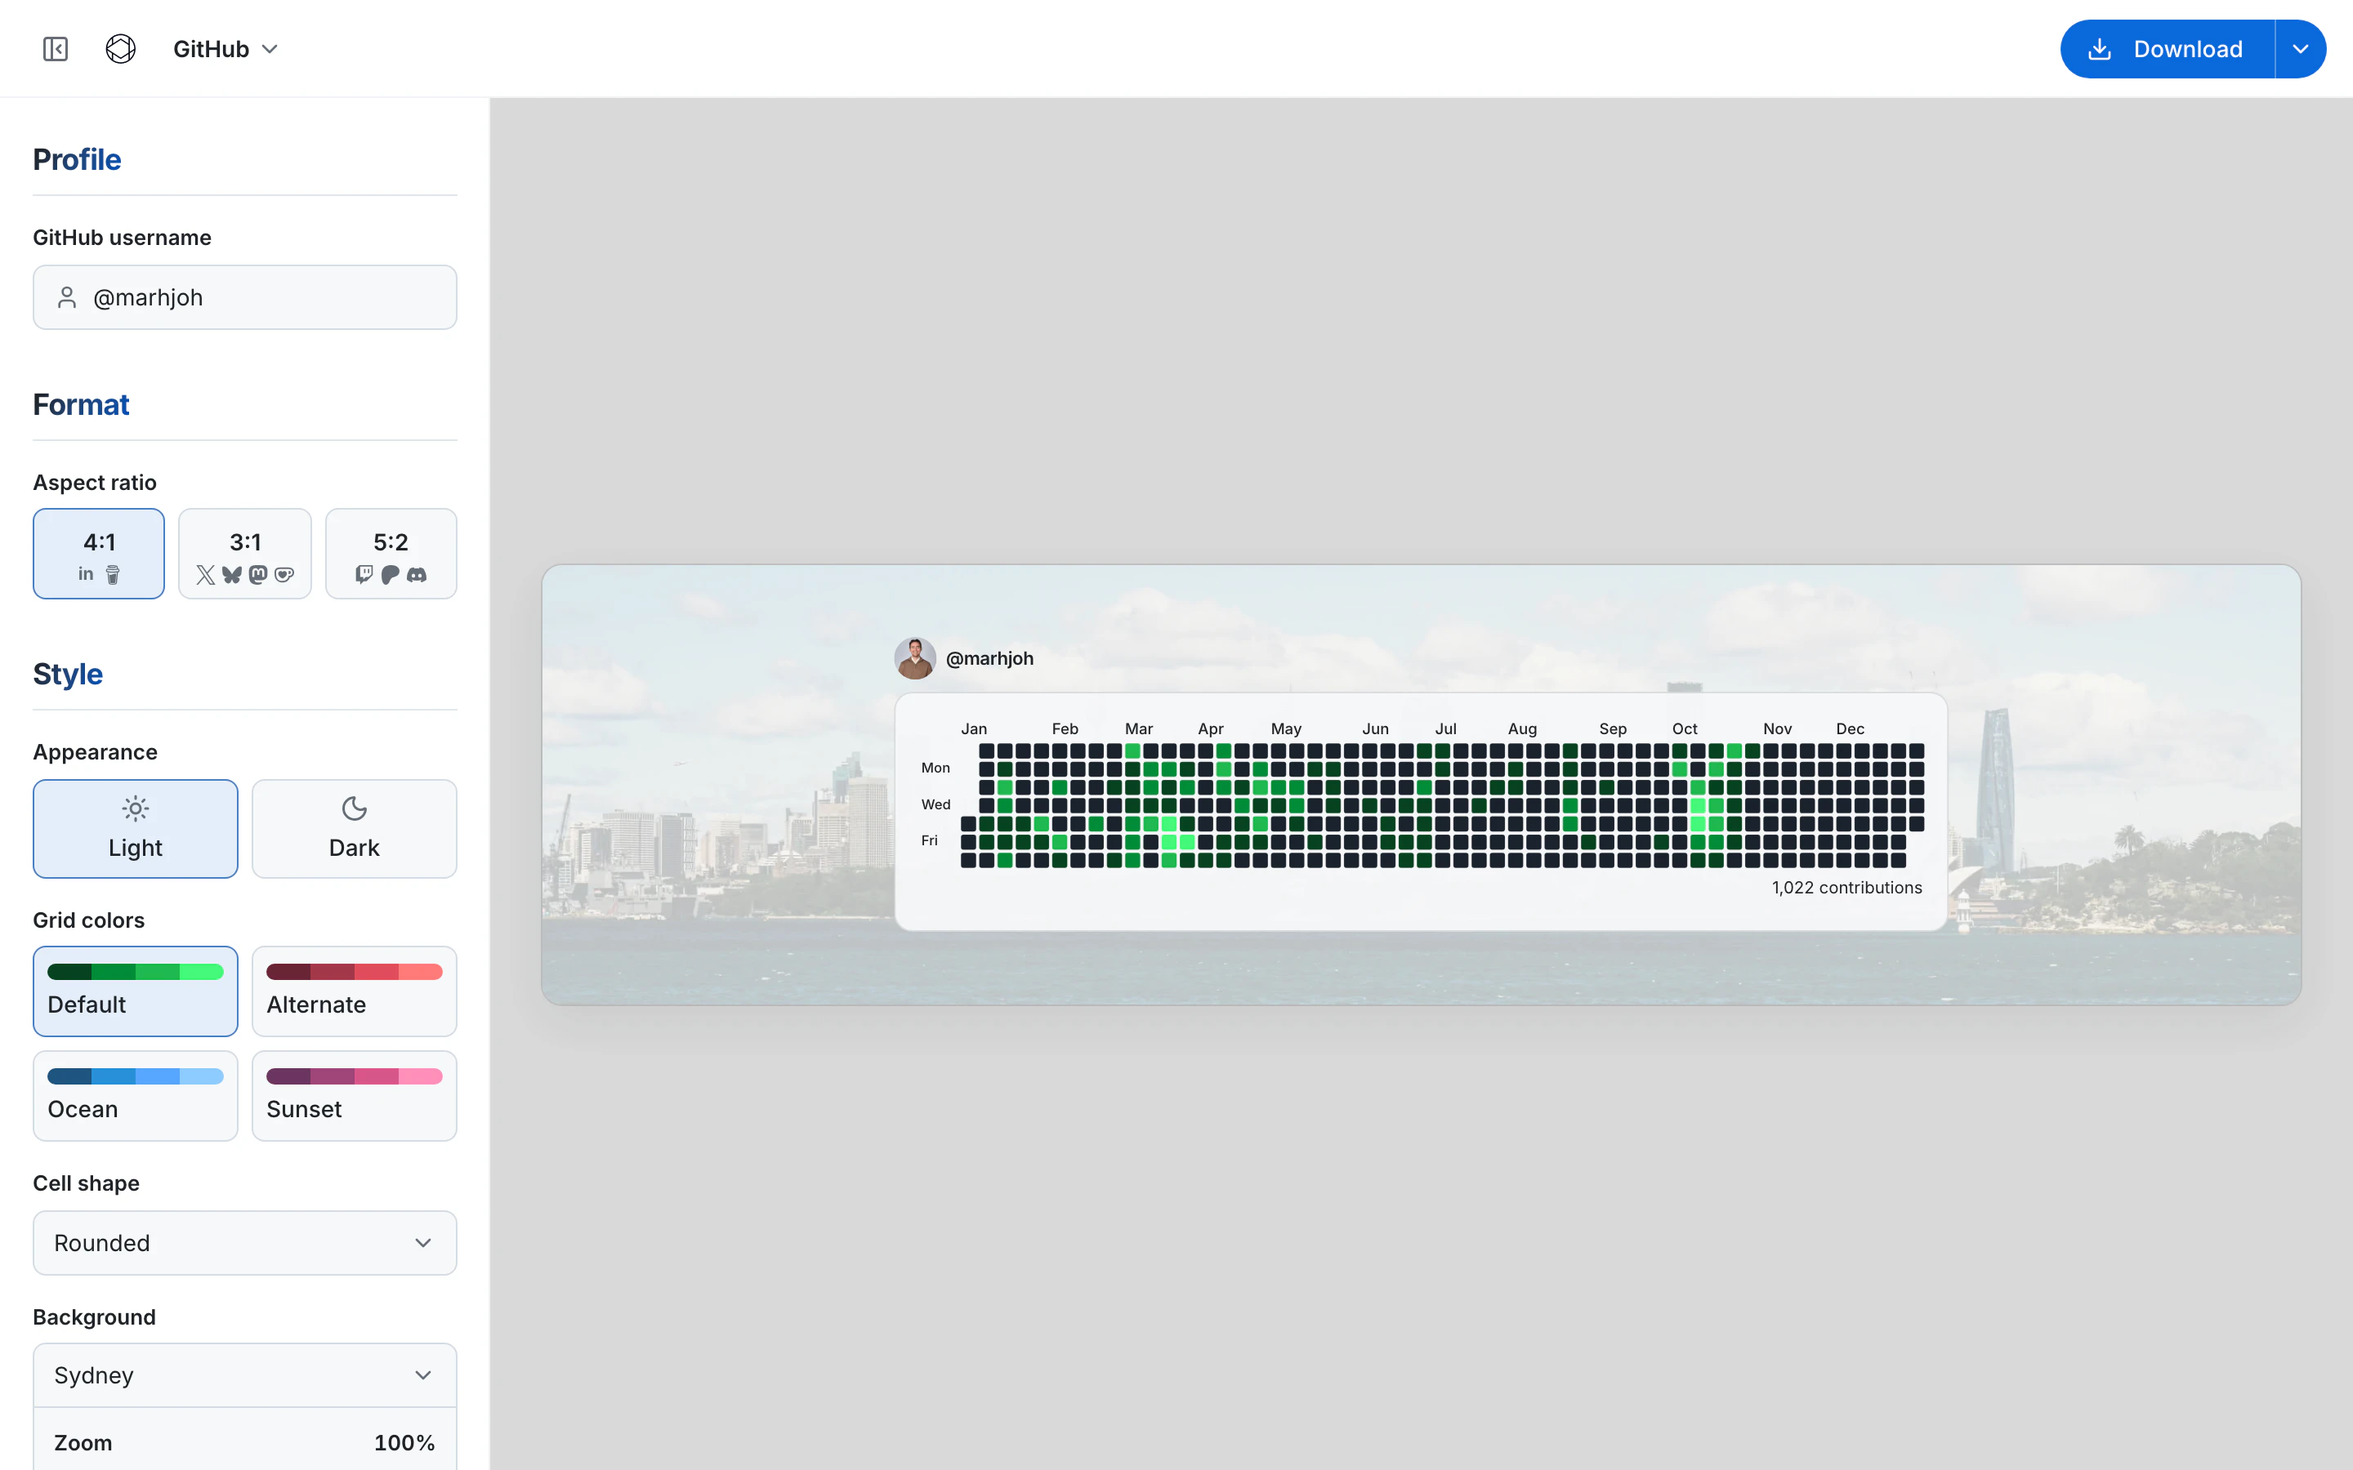
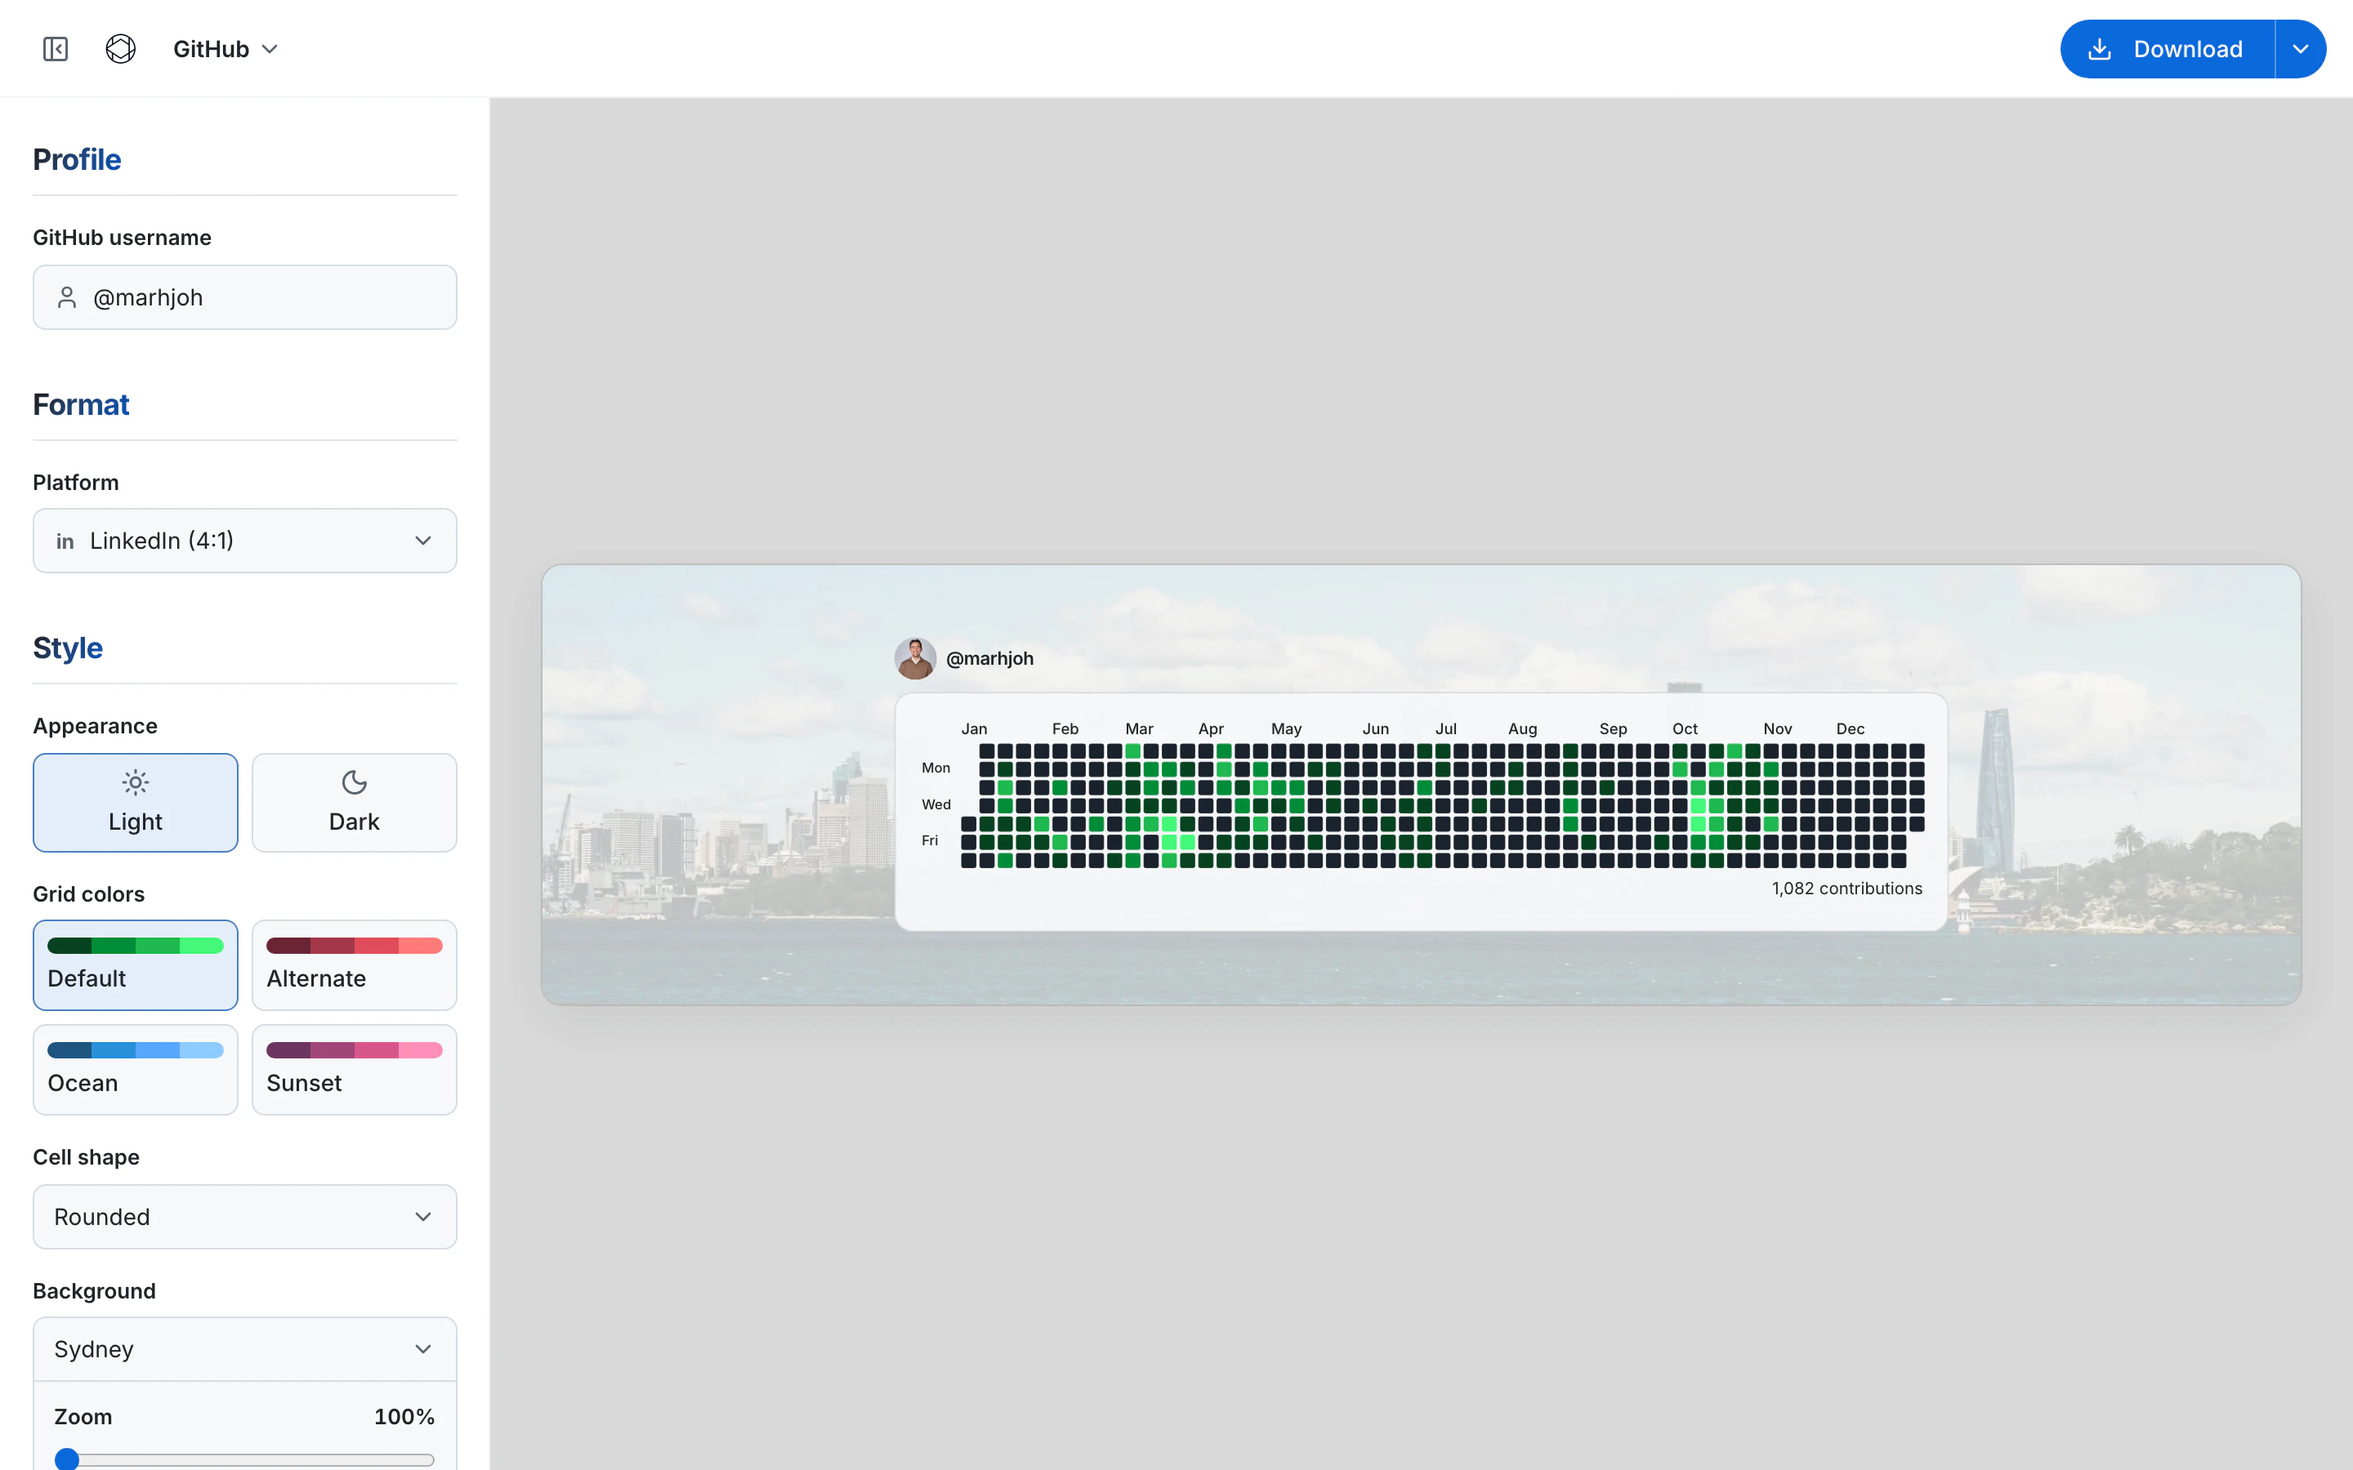
feat: copy the embed as a link, Markdown or HTML in one click (#239)

Changed region(s): [[0.0, 0.3111, 0.1875, 1.0], [0.4062, 0.4978, 0.8125, 0.6222]]

diff --git a/src/studio/EmbedLinks.tsx b/src/studio/EmbedLinks.tsx
@@ -1,0 +1,81 @@
+import { Code, FileText, Link, type LucideIcon } from "lucide-react";
+import type { ExportFormat, ExportPixelRatio } from "@/src/export/format";
+import { bannerImageUrl, linkQuery } from "@/src/studio/embedUrl";
+import { templateRegistry } from "@/src/templates/registry";
+import type { TemplateId } from "@/src/templates/types";
+import type { Theme } from "@/src/theme/theme";
+import controls from "@/src/studio/controls.module.css";
+
+const SNIPPETS: ReadonlyArray<{
+  name: string;
+  label: string;
+  Icon: LucideIcon;
+  write: (url: string, alt: string) => string;
+}> = [
+  { name: "Link", label: "Copy link", Icon: Link, write: (url) => url },
+  {
+    name: "Markdown",
+    label: "Copy Markdown",
+    Icon: FileText,
+    write: (url, alt) => `![${alt}](${url})`,
+  },
+  {
+    name: "HTML",
+    label: "Copy HTML",
+    Icon: Code,
+    write: (url, alt) => `<img src="${url.replaceAll("&", "&amp;")}" alt="${alt}">`,
+  },
+];
+
+/**
+ * The export panel's embed rows: the banner's image URL, copied as a link, Markdown or HTML. The
+ * URL follows the panel's resolution and format.
+ */
+export function EmbedLinks({
+  templateId,
+  state,
+  uiTheme,
+  format,
+  pixelRatio,
+  disabled,
+  onCopy,
+}: {
+  templateId: TemplateId;
+  state: Record<string, unknown>;
+  uiTheme: Theme;
+  format: ExportFormat;
+  pixelRatio: ExportPixelRatio;
+  /** Disabled like Copy image while there's nothing to export. */
+  disabled: boolean;
+  /** `name` goes in the confirmation, e.g. "Markdown copied." */
+  onCopy: (text: string, name: string) => void;
+}) {
+  const query = linkQuery(templateId, state);
+  const url = query
+    ? bannerImageUrl(window.location.origin, templateId, query, { format, pixelRatio, uiTheme })
+    : null;
+  const { title, needsUsername } = templateRegistry[templateId].meta;
+  const alt = needsUsername ? `${title} by @${state.username}` : title;
+
+  return (
+    <>
+      {url === null && (
+        <p className="px-2 pb-1 text-xs text-muted">
+          Uploaded images can&apos;t go in a link. Use a built-in background or an image link.
+        </p>
+      )}
+      {SNIPPETS.map(({ name, label, Icon, write }) => (
+        <button
+          key={name}
+          type="button"
+          disabled={disabled || url === null}
+          onClick={() => url && onCopy(write(url, alt), name)}
+          className={controls.panelAction}
+        >
+          <Icon className="h-4 w-4 shrink-0 text-muted" aria-hidden />
+          {label}
+        </button>
+      ))}
+    </>
+  );
+}

diff --git a/src/studio/ExportControls.tsx b/src/studio/ExportControls.tsx
@@ -18,7 +18,7 @@ import { DropdownChevron } from "@/src/ui/Dropdown";
 import { Spinner } from "@/src/ui/Spinner";
 import { useDisclosure } from "@/src/ui/useDisclosure";
 import { TileGroup } from "@/src/studio/TileGroup";
-import { EmbedDisclosure } from "@/src/studio/EmbedDisclosure";
+import { EmbedLinks } from "@/src/studio/EmbedLinks";
 import type { ExportKind } from "@/src/studio/useBannerExport";
 import type { TemplateId } from "@/src/templates/types";
 import type { Theme } from "@/src/theme/theme";
@@ -71,6 +71,7 @@ export function ExportControls({
 }) {
   const { open, setOpen, close, rootRef, toggleRef, onBlur } = useDisclosure();
   const panelId = useId();
+  const copyTitleId = useId();
   const shownFormat = exportFormatFor(bannerFormat, format);
   const formatLabel = EXPORT_FORMAT_DETAILS[shownFormat].label;
   const shownPixelRatio = exportPixelRatioFor(bannerFormat, shownFormat, pixelRatio);
@@ -171,7 +172,10 @@ export function ExportControls({
               {(option) => <ChoiceTile {...option} />}
             </TileGroup>
           </div>
-          <div className={controls.panelActions}>
+          <div role="group" aria-labelledby={copyTitleId} className={controls.panelActions}>
+            <p id={copyTitleId} className="field-label px-2 pt-1 pb-1">
+              Copy
+            </p>
             <button
               type="button"
               onClick={() => {
@@ -184,7 +188,7 @@ export function ExportControls({
               <Copy className="h-4 w-4 shrink-0 text-muted" aria-hidden />
               Copy image
             </button>
-            <EmbedDisclosure
+            <EmbedLinks
               {...banner}
               format={shownFormat}
               pixelRatio={shownPixelRatio}

diff --git a/src/banner/Frame.tsx b/src/banner/Frame.tsx
@@ -1,4 +1,4 @@
-import { createContext, PropsWithChildren, useContext } from "react";
+import { createContext, PropsWithChildren, type SyntheticEvent, useContext } from "react";
 import { bannerUiChrome, type Theme } from "@/src/theme/theme";
 import { backgroundImageStyle, type BannerBackground } from "@/src/banner/background";
 import { previewPhotoSrcSet } from "@/src/backgrounds/presets";
@@ -16,6 +16,15 @@ import {
  * and always gets the full-size photo.
  */
 export const PreviewPhotosContext = createContext(false);
+
+function markLoadedBackground(img: HTMLImageElement | null) {
+  if (img?.complete) img.dataset.loadedEarly = "";
+}
+
+function fadeInLateBackground(event: SyntheticEvent<HTMLImageElement>) {
+  const img = event.currentTarget;
+  if (!("loadedEarly" in img.dataset)) img.dataset.fadeIn = "";
+}
 
 /**
  * The banner's root, the same in the preview and the export. It stacks the background image, the
@@ -57,6 +66,10 @@ export function Frame({
           sizes={srcSet ? PREVIEW_PHOTO_SIZES : undefined}
           alt=""
           {...{ [BANNER_BACKGROUND_ATTRIBUTE]: "" }}
+          // In the studio, a background that arrives after the banner fades in (studio.module.css).
+          // One that's already loaded when the banner appears shows right away.
+          ref={previewPhotos ? markLoadedBackground : undefined}
+          onLoad={previewPhotos ? fadeInLateBackground : undefined}
           style={{
             position: "absolute",
             inset: 0,

diff --git a/src/studio/studio.module.css b/src/studio/studio.module.css
@@ -164,14 +164,33 @@
     0 10px 32px rgba(31, 35, 40, 0.08);
 }
 
-/* Hide the banner until its content is fitted (FitContent sets data-banner-fit). Otherwise the
-   background shows alone until the page's JavaScript runs. Keep in sync with BANNER_ROOT_CLASS and
-   FIT_STATUS_ATTRIBUTE (src/banner/). */
-:global(.omnivix-artboard:has([data-banner-fit="pending"]) .banner-export-root) {
-  visibility: hidden;
+/* The background shows as soon as it loads. The content and a background that loads later fade
+   in, instead of popping in. Exports aren't affected: these rules only apply in the preview. */
+@media (prefers-reduced-motion: no-preference) {
+  :global(.omnivix-artboard [data-banner-content]) {
+    transition: opacity 0.2s ease-out;
+  }
+
+  :global(.omnivix-artboard img[data-banner-background][data-fade-in]) {
+    animation: bannerFadeIn 0.3s ease-out;
+  }
+}
+
+/* No `to`: it fades up to the image's own opacity. */
+@keyframes bannerFadeIn {
+  from {
+    opacity: 0;
+  }
 }
 
 /* Loading/empty/error copy needs more room than a scaled-down LinkedIn banner on phones. */
 :global(.omnivix-artboard:not([data-state="ready"])) {
   min-height: min(220px, 100%);
+}
+
+/* With the sidebar open on desktop, center toasts on the preview instead of the whole window. */
+@media (min-width: 768px) {
+  .shell:has(.content[data-sidebar-collapsed="false"]) .toast {
+    left: var(--sidebar-width);
+  }
 }

diff --git a/src/banner/FitContent.tsx b/src/banner/FitContent.tsx
@@ -42,6 +42,7 @@ export function FitContent({
     scaler.style.top = `${box.top + (room.height * position.y) / 100}px`;
     scaler.style.transform = `scale(${scale})`;
     scaler.style.visibility = "visible";
+    scaler.style.opacity = "1";
     if (document.fonts.status === "loaded") {
       container.setAttribute(FIT_STATUS_ATTRIBUTE, "ready");
     }
@@ -77,12 +78,14 @@ export function FitContent({
     >
       <div
         ref={scalerRef}
-        // `fit` sets left, top and transform. Until then the content is hidden. The server-rendered
-        // banner shows before JavaScript runs, and the content would visibly jump into place.
+        // `fit` sets left, top and transform, then shows the content. Until then it's hidden: the
+        // server-rendered banner shows before JavaScript runs, and the content would jump into
+        // place. The studio fades the opacity in (studio.module.css).
         {...{ [BANNER_CONTENT_ATTRIBUTE]: "" }}
         style={{
           position: "absolute",
           visibility: "hidden",
+          opacity: 0,
           transformOrigin: "0 0",
           width: "max-content",
         }}

diff --git a/src/ui/Toast.tsx b/src/ui/Toast.tsx
@@ -34,7 +34,16 @@ export function useToast() {
 }
 
 /** A toast at the bottom of the screen for one-off problems and confirmations. */
-export function Toast({ toast, onDismiss }: { toast: ToastMessage | null; onDismiss: () => void }) {
+export function Toast({
+  toast,
+  onDismiss,
+  className = "",
+}: {
+  toast: ToastMessage | null;
+  onDismiss: () => void;
+  /** For the page to center the toast on part of the screen. */
+  className?: string;
+}) {
   const reduceMotion = useReducedMotion();
   const success = toast?.tone === "success";
   const Icon = success ? CheckCircle2 : AlertCircle;
@@ -46,7 +55,9 @@ export function Toast({ toast, onDismiss }: { toast: ToastMessage | null; onDism
   }, [toast, onDismiss]);
 
   return (
-    <div className="pointer-events-none fixed inset-x-0 bottom-[calc(1.5rem+env(safe-area-inset-bottom,0px))] z-50 flex justify-center px-4">
+    <div
+      className={`pointer-events-none fixed inset-x-0 bottom-[calc(1.5rem+env(safe-area-inset-bottom,0px))] z-50 flex justify-center px-4 ${className}`}
+    >
       <AnimatePresence>
         {toast && (
           <motion.div

diff --git a/src/studio/controls.module.css b/src/studio/controls.module.css
@@ -432,8 +432,6 @@
 /* The copy actions below the choices. Styled like dropdown options, with a rule above. */
 .panelActions {
   margin: 1rem -0.5rem 0;
-  border-top: 1px solid var(--divider-strong);
-  padding-top: 0.5rem;
 }
 
 .panelAction {
@@ -468,33 +466,4 @@
 .panelAction:focus-visible {
   outline: 2px solid var(--focus-ring);
   outline-offset: -2px;
-}
-
-/* The part that opens under "Embed in a README or site". Grid rows going from 0fr to 1fr animate
-   the height. It's hidden while closed, which keeps its controls out of the tab order. */
-.embedBody {
-  display: grid;
-  grid-template-rows: 0fr;
-  opacity: 0;
-  visibility: hidden;
-}
-
-.embedBody[data-open="true"] {
-  grid-template-rows: 1fr;
-  opacity: 1;
-  visibility: visible;
-}
-
-@media (prefers-reduced-motion: no-preference) {
-  .embedBody {
-    transition:
-      grid-template-rows 0.2s ease-out,
-      opacity 0.2s ease-out,
-      visibility 0.2s;
-  }
-}
-
-.embedBody > * {
-  min-height: 0;
-  overflow: hidden;
 }

diff --git a/src/banner/placement.ts b/src/banner/placement.ts
@@ -14,10 +14,7 @@ export const BANNER_LOGO_ATTRIBUTE = "data-banner-logo";
 /** Marks the background image, whose natural size the preview needs to pan it. */
 export const BANNER_BACKGROUND_ATTRIBUTE = "data-banner-background";
 
-/**
- * The class on Frame's root. The export screenshots this element, and the studio hides it until
- * the content is fitted. Keep in sync with studio.module.css.
- */
+/** The class on Frame's root. The export screenshots this element. */
 export const BANNER_ROOT_CLASS = "banner-export-root";
 
 /** While dragging, items snap to the edges and the middle of the box. */

diff --git a/e2e/smoke.spec.ts b/e2e/smoke.spec.ts
@@ -47,8 +47,6 @@ test("the export panel copies the banner's image URL as Markdown", async ({
   await page.goto("/studio/quote-banner");
   await expect(preview(page)).toHaveAttribute("data-state", "ready");
   await page.getByRole("button", { name: /^Export options/ }).click();
-  await page.getByRole("button", { name: "Embed in a README or site" }).click();
-  await page.getByRole("button", { name: "Markdown", exact: true }).click();
   await page.getByRole("button", { name: "Copy Markdown" }).click();
   await expect(page.getByText("Markdown copied.")).toBeVisible();
 

diff --git a/src/studio/StudioShell.tsx b/src/studio/StudioShell.tsx
@@ -163,7 +163,7 @@ export function StudioShell({
 
   return (
     <div className={styles.shell}>
-      <Toast toast={toast} onDismiss={dismissToast} />
+      <Toast toast={toast} onDismiss={dismissToast} className={styles.toast} />
       <UsernameModal
         open={showUsernameModal}
         currentUsername={username}

diff --git a/docs/api.md b/docs/api.md
@@ -42,7 +42,7 @@ Values that aren't valid are ignored. Uploaded backgrounds and logos can't be li
 ![Contribution Banner by @marhjoh](https://omnivix.vercel.app/banner/contribution-banner.png?username=marhjoh&size=header&themeId=sunset)
 ```
 
-In the studio, "Embed in a README or site" in the export panel builds it for you.
+In the studio, the export panel's Copy link, Copy Markdown and Copy HTML copy it.
 
 - **Settings:** values that aren't valid use the defaults. Uploaded images can't go in a URL. Images stop at 2×, which is sharp on any screen and keeps photo banners small.
 - **Caching:** an image is cached for a day (`s-maxage=86400`). After that, the old image is served while a new one renders (`stale-while-revalidate=604800`), so a README never waits on a render. Errors are cached for 5 minutes.
